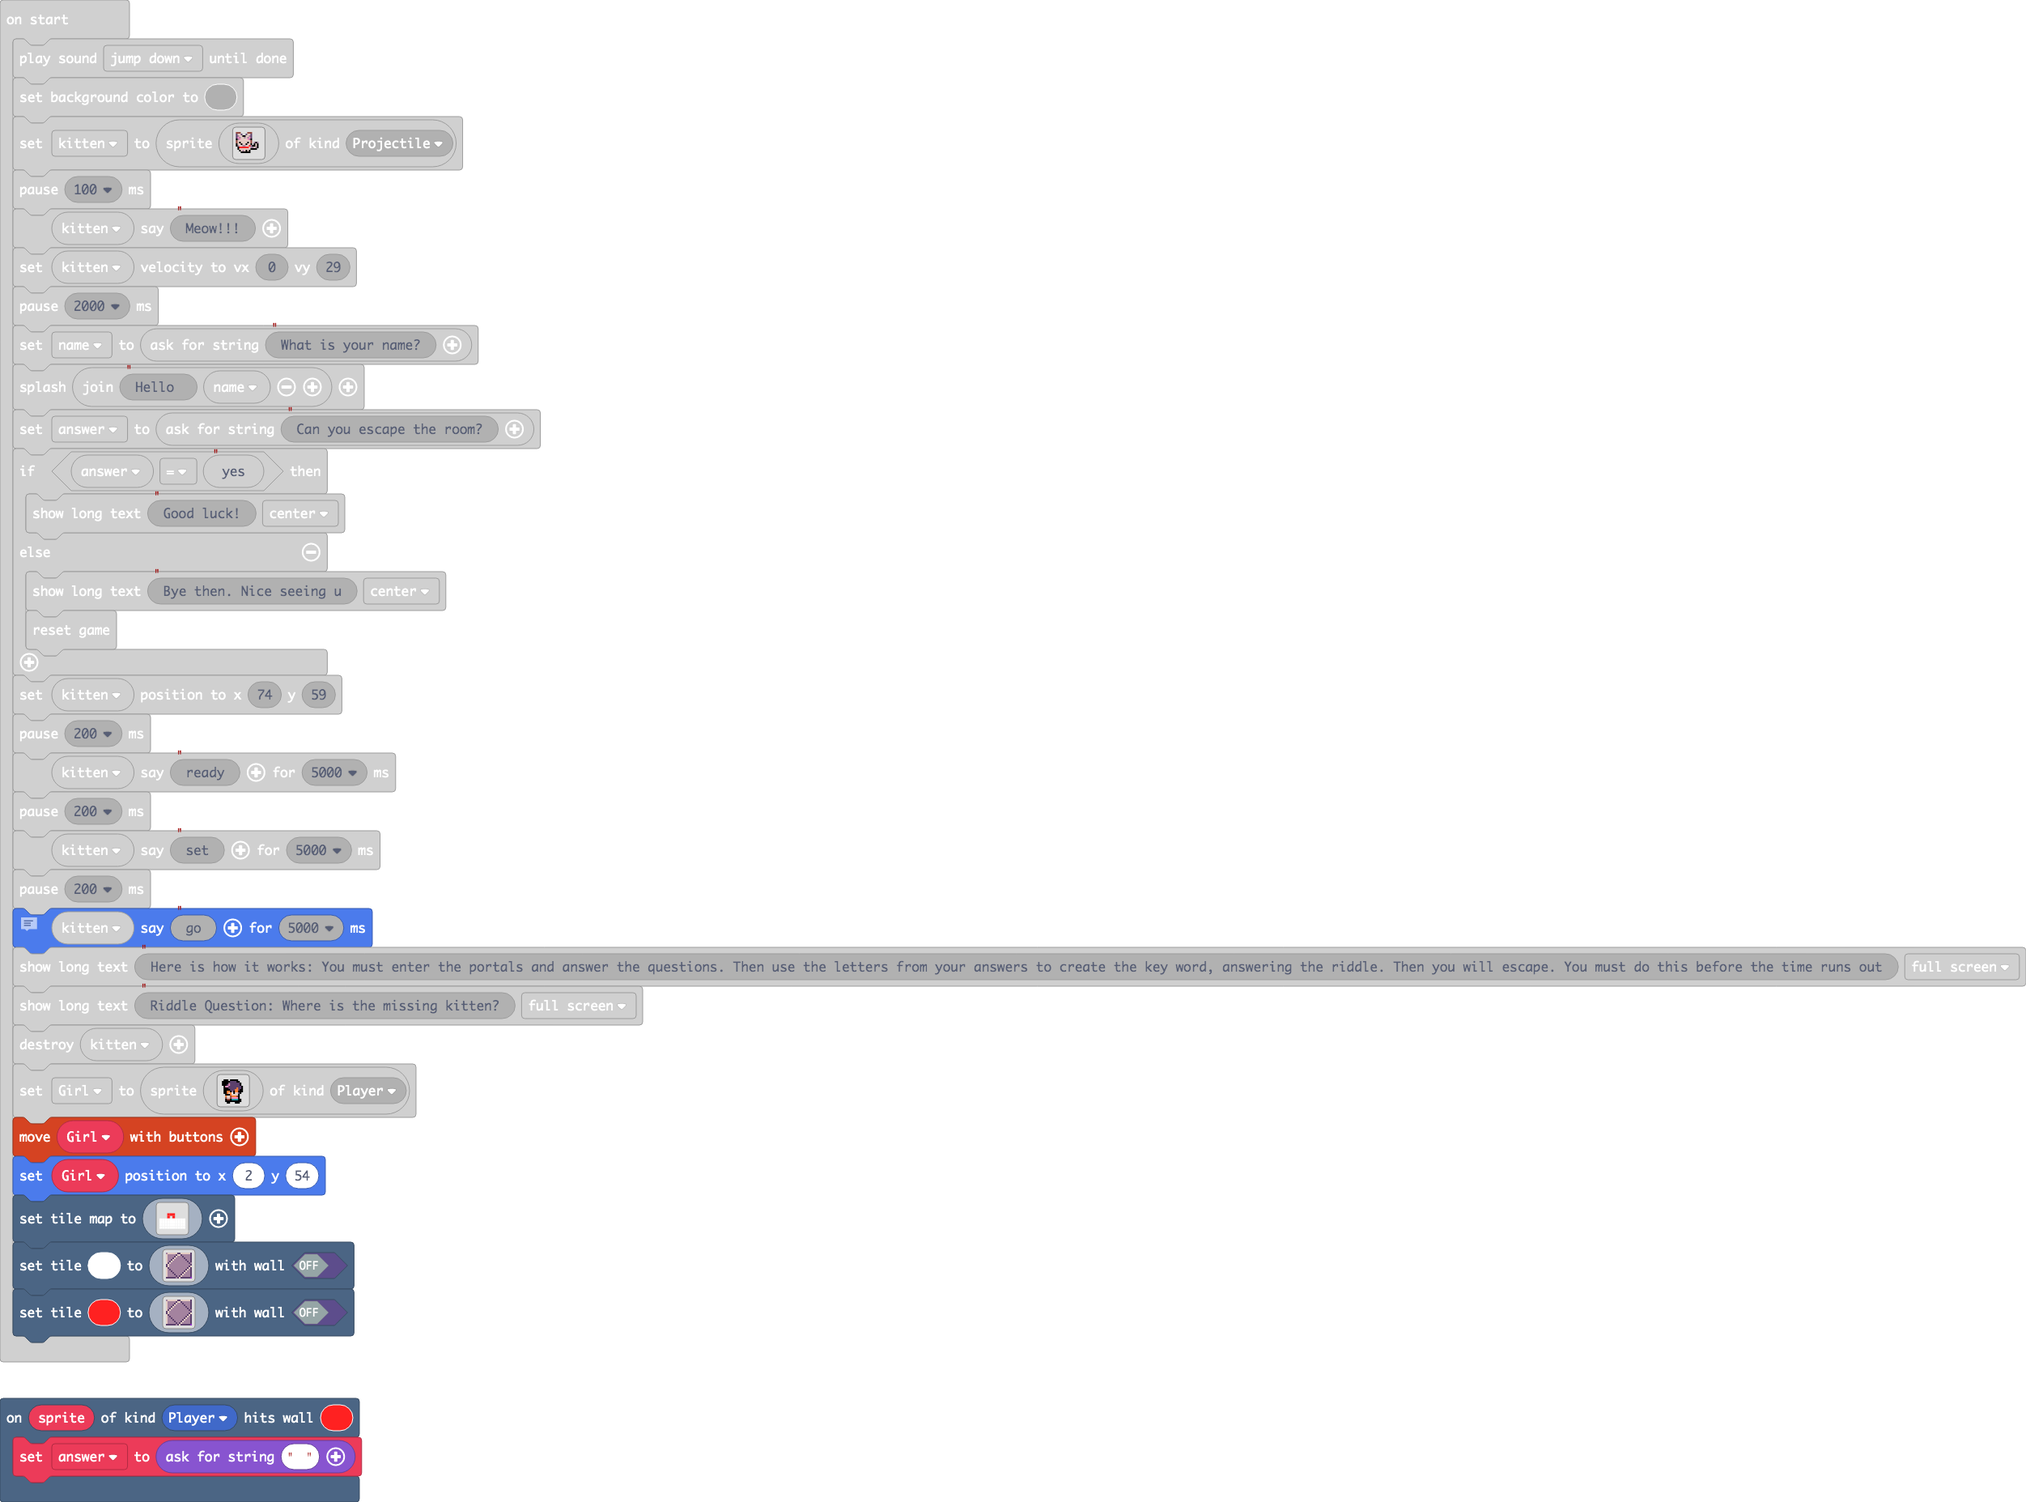
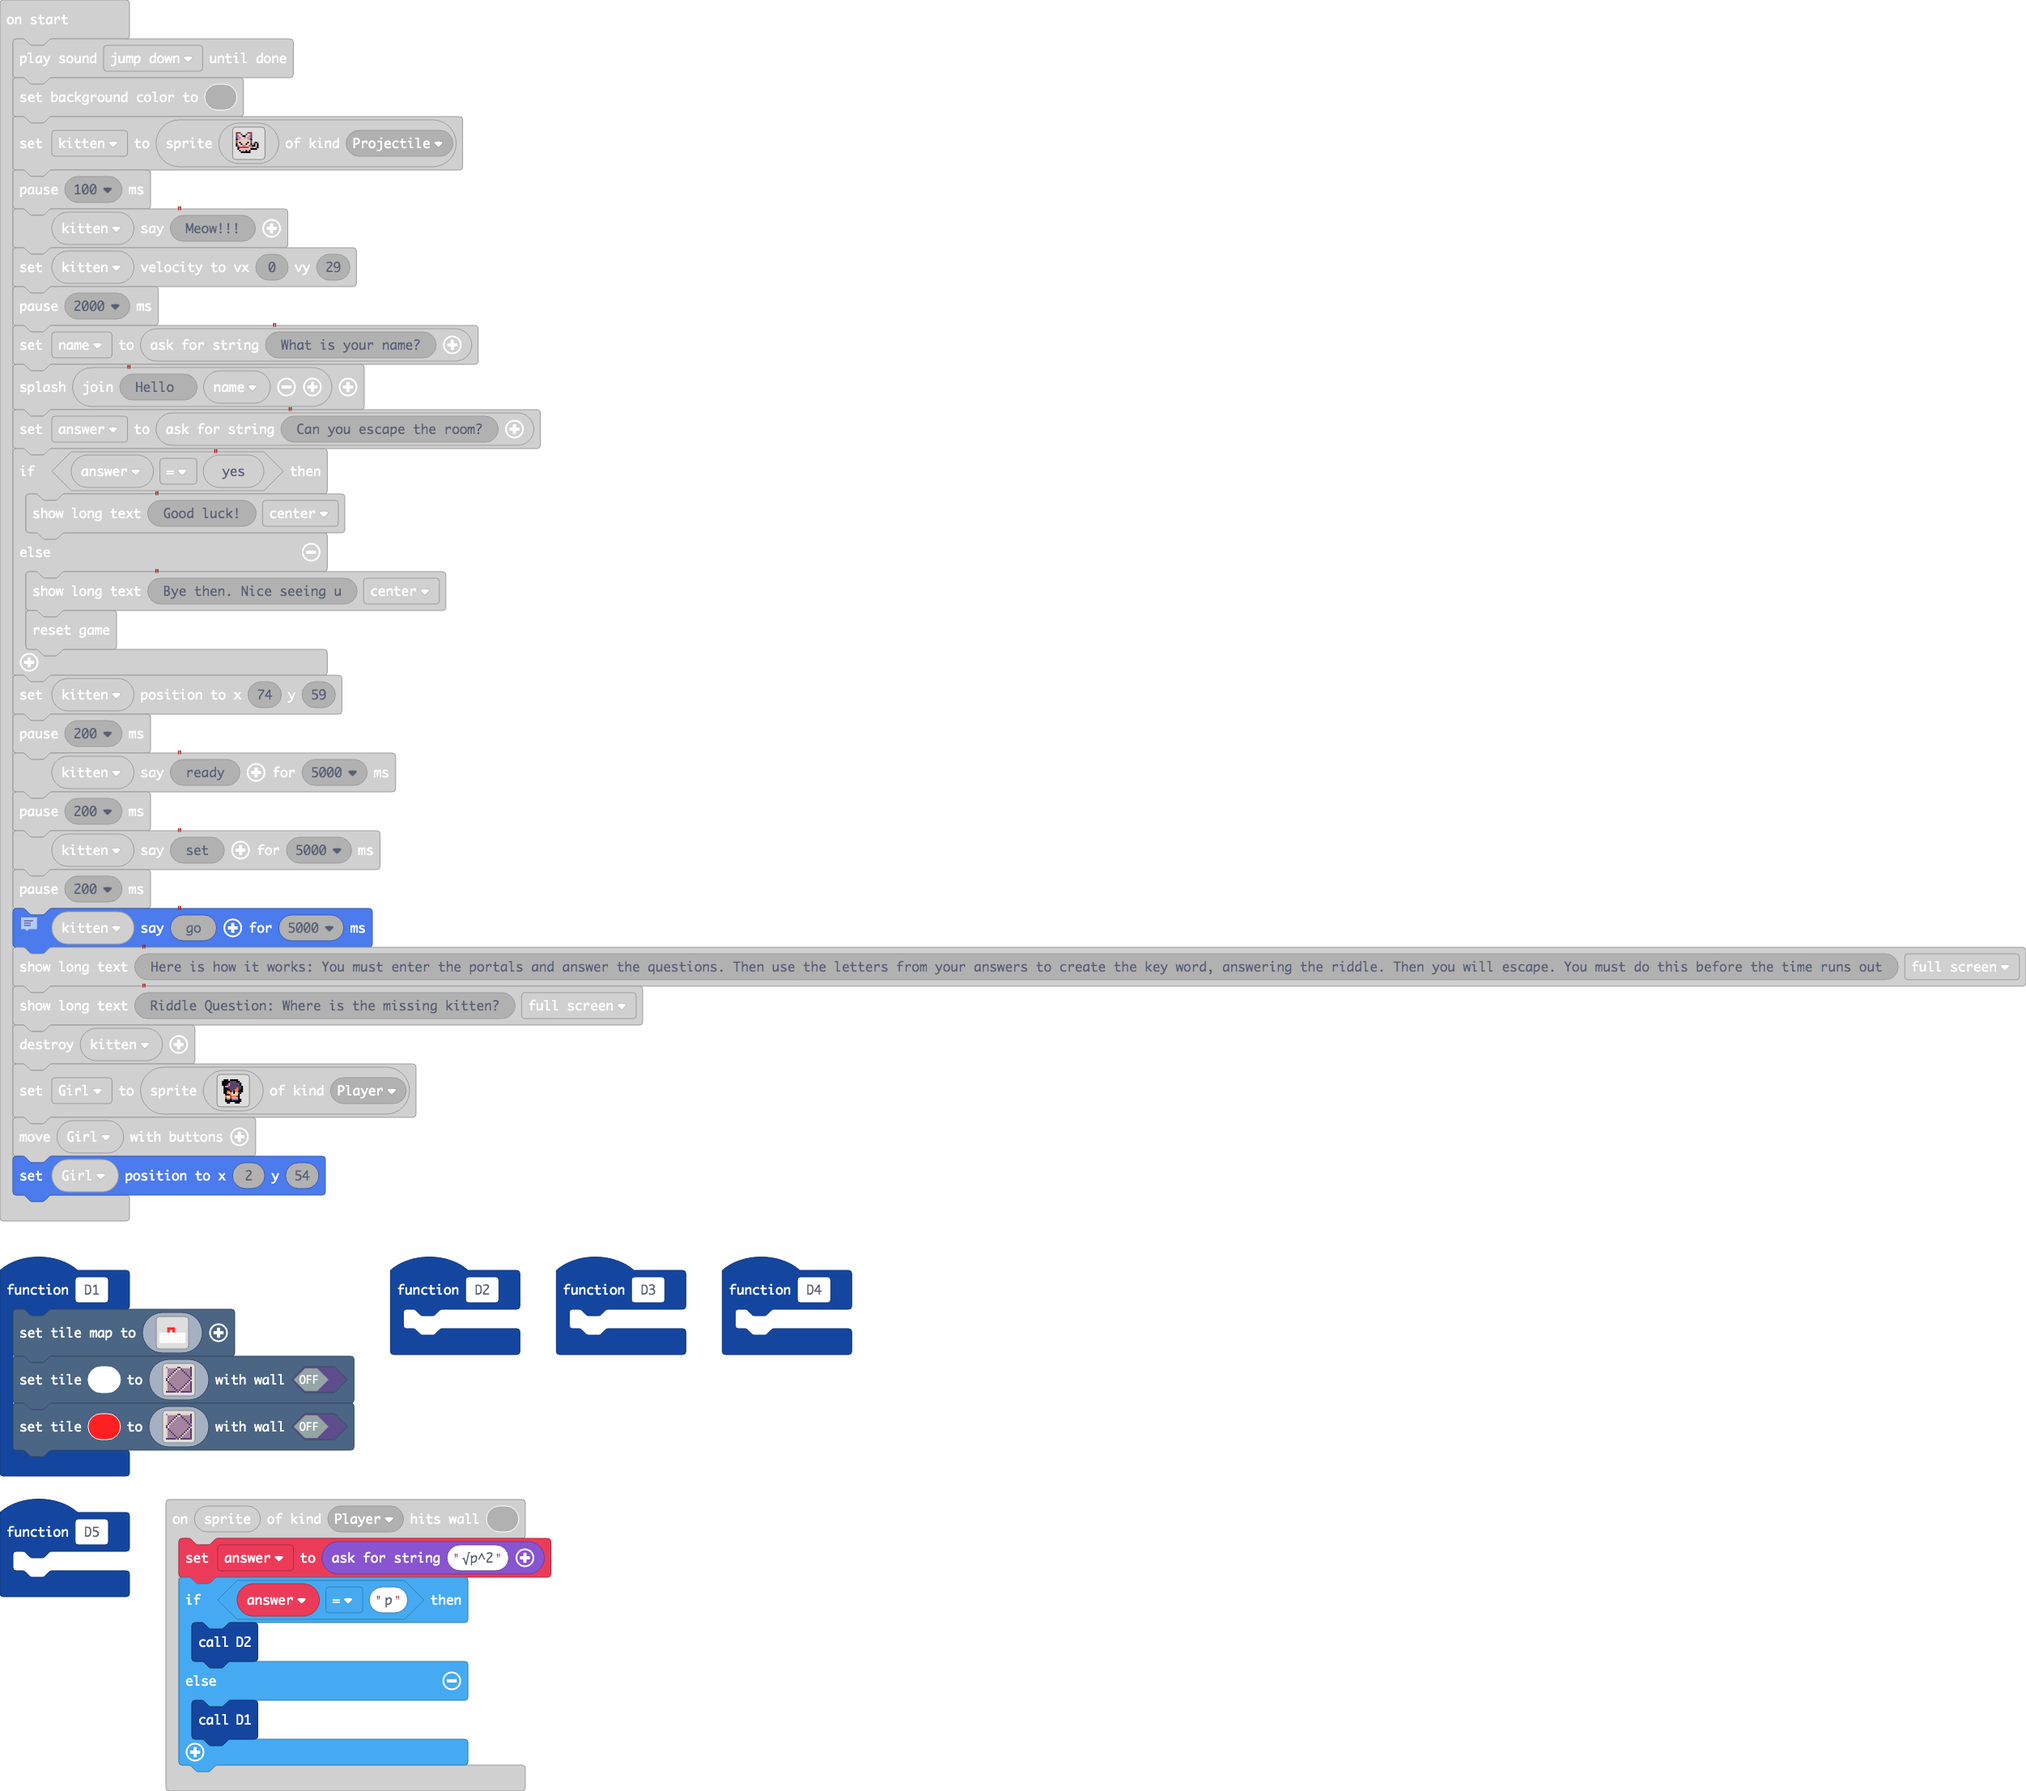
Update main.blocks, main.ts

Changed region(s): [[0.0, 0.0, 1.0, 1.0]]

diff --git a/main.ts b/main.ts
@@ -3,8 +3,73 @@ enum ActionKind {
     Idle,
     Jumping
 }
+function D1 () {
+    scene.setTileMap(img`
+. . . . . . . . . . 
+. . . . . . . . . . 
+. . . 2 2 2 . . . . 
+. . . 2 . 2 . . . . 
+1 1 1 1 1 1 1 1 1 1 
+1 1 1 1 1 1 1 1 1 1 
+1 1 1 1 1 1 1 1 1 1 
+1 1 1 1 1 1 1 1 1 1 
+`)
+    scene.setTile(1, img`
+b d d d d d d c c d d d d d d c 
+d b b b b b c d d c b b b b b c 
+d b b b b c d b b b c b b b b c 
+d b b b c d b b b b b c b b b c 
+d b b c d b b b b b b b c b b c 
+d b c d b b b b b b b b b c b c 
+d c d b b b b b b b b b b b c b 
+c d b b b b b b b b b b b b b c 
+c d b b b b b b b b b b b b c d 
+d c b b b b b b b b b b b c d c 
+d b c b b b b b b b b b c d b c 
+d b b c b b b b b b b c d b b c 
+d b b b c b b b b b c d b b b c 
+d b b b b c b b b c d b b b b c 
+d b b b b b c b c d b b b b b c 
+c c c c c c b c d c c c c c c a 
+`, false)
+    scene.setTile(2, img`
+b d d d d d d c c d d d d d d c 
+d b b b b b c d d c b b b b b c 
+d b b b b c d b b b c b b b b c 
+d b b b c d b b b b b c b b b c 
+d b b c d b b b b b b b c b b c 
+d b c d b b b b b b b b b c b c 
+d c d b b b b b b b b b b b c b 
+c d b b b b b b b b b b b b b c 
+c d b b b b b b b b b b b b c d 
+d c b b b b b b b b b b b c d c 
+d b c b b b b b b b b b c d b c 
+d b b c b b b b b b b c d b b c 
+d b b b c b b b b b c d b b b c 
+d b b b b c b b b c d b b b b c 
+d b b b b b c b c d b b b b b c 
+c c c c c c b c d c c c c c c a 
+`, false)
+}
+function D2 () {
+	
+}
+function D3 () {
+	
+}
+function D4 () {
+	
+}
+function D5 () {
+	
+}
 scene.onHitTile(SpriteKind.Player, 2, function (sprite) {
-    answer = game.askForString("")
+    answer = game.askForString("√p^2")
+    if (answer == "p") {
+        D2()
+    } else {
+        D1()
+    }
 })
 let answer = ""
 music.jumpDown.playUntilDone()
@@ -73,49 +138,3 @@ f f f c 3 c c c c c c f . .
 `, SpriteKind.Player)
 controller.moveSprite(Girl)
 Girl.setPosition(2, 54)
-scene.setTileMap(img`
-. . . . . . . . . . 
-. . . . . . . . . . 
-. . . 2 2 2 . . . . 
-. . . 2 . 2 . . . . 
-1 1 1 1 1 1 1 1 1 1 
-1 1 1 1 1 1 1 1 1 1 
-1 1 1 1 1 1 1 1 1 1 
-1 1 1 1 1 1 1 1 1 1 
-`)
-scene.setTile(1, img`
-b d d d d d d c c d d d d d d c 
-d b b b b b c d d c b b b b b c 
-d b b b b c d b b b c b b b b c 
-d b b b c d b b b b b c b b b c 
-d b b c d b b b b b b b c b b c 
-d b c d b b b b b b b b b c b c 
-d c d b b b b b b b b b b b c b 
-c d b b b b b b b b b b b b b c 
-c d b b b b b b b b b b b b c d 
-d c b b b b b b b b b b b c d c 
-d b c b b b b b b b b b c d b c 
-d b b c b b b b b b b c d b b c 
-d b b b c b b b b b c d b b b c 
-d b b b b c b b b c d b b b b c 
-d b b b b b c b c d b b b b b c 
-c c c c c c b c d c c c c c c a 
-`, false)
-scene.setTile(2, img`
-b d d d d d d c c d d d d d d c 
-d b b b b b c d d c b b b b b c 
-d b b b b c d b b b c b b b b c 
-d b b b c d b b b b b c b b b c 
-d b b c d b b b b b b b c b b c 
-d b c d b b b b b b b b b c b c 
-d c d b b b b b b b b b b b c b 
-c d b b b b b b b b b b b b b c 
-c d b b b b b b b b b b b b c d 
-d c b b b b b b b b b b b c d c 
-d b c b b b b b b b b b c d b c 
-d b b c b b b b b b b c d b b c 
-d b b b c b b b b b c d b b b c 
-d b b b b c b b b c d b b b b c 
-d b b b b b c b c d b b b b b c 
-c c c c c c b c d c c c c c c a 
-`, false)
